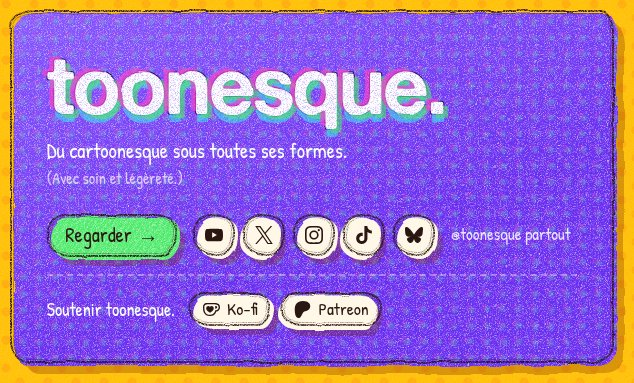
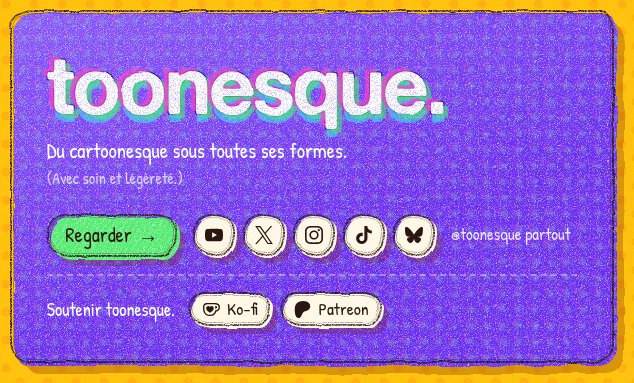
Boutons ronds toonesque. et Soutenir : espacement régulier
Le débord du coloriage alternait gauche/droite (un bouton sur deux),
ce qui donnait des espaces serré/large. Même débord pour tous les petits boutons.

Claude-Session: https://claude.ai/code/session_01LKzVBaJrLPfnWSfihrEFNx

diff --git a/assets/style.css b/assets/style.css
@@ -242,6 +242,11 @@ a { color: inherit; }
 .sketch:nth-child(even)::after { border-radius: var(--blob-2); }
 li:nth-child(even) > .sketch::before { inset: 3px 4px -4px -3px; }
 
+/* Petits boutons en ligne : même débord pour tous, sinon l'alternance
+   gauche/droite rend les espacements irréguliers */
+.socials li .sketch::before,
+.support-links li .sketch::before { inset: 2px -2px -2px 2px; }
+
 a.sketch:hover { transform: rotate(-1.4deg) translateY(-3px); }
 li:nth-child(even) > a.sketch:hover { transform: rotate(1.4deg) translateY(-3px); }
 a.sketch:hover::before { --fill: var(--c); }
